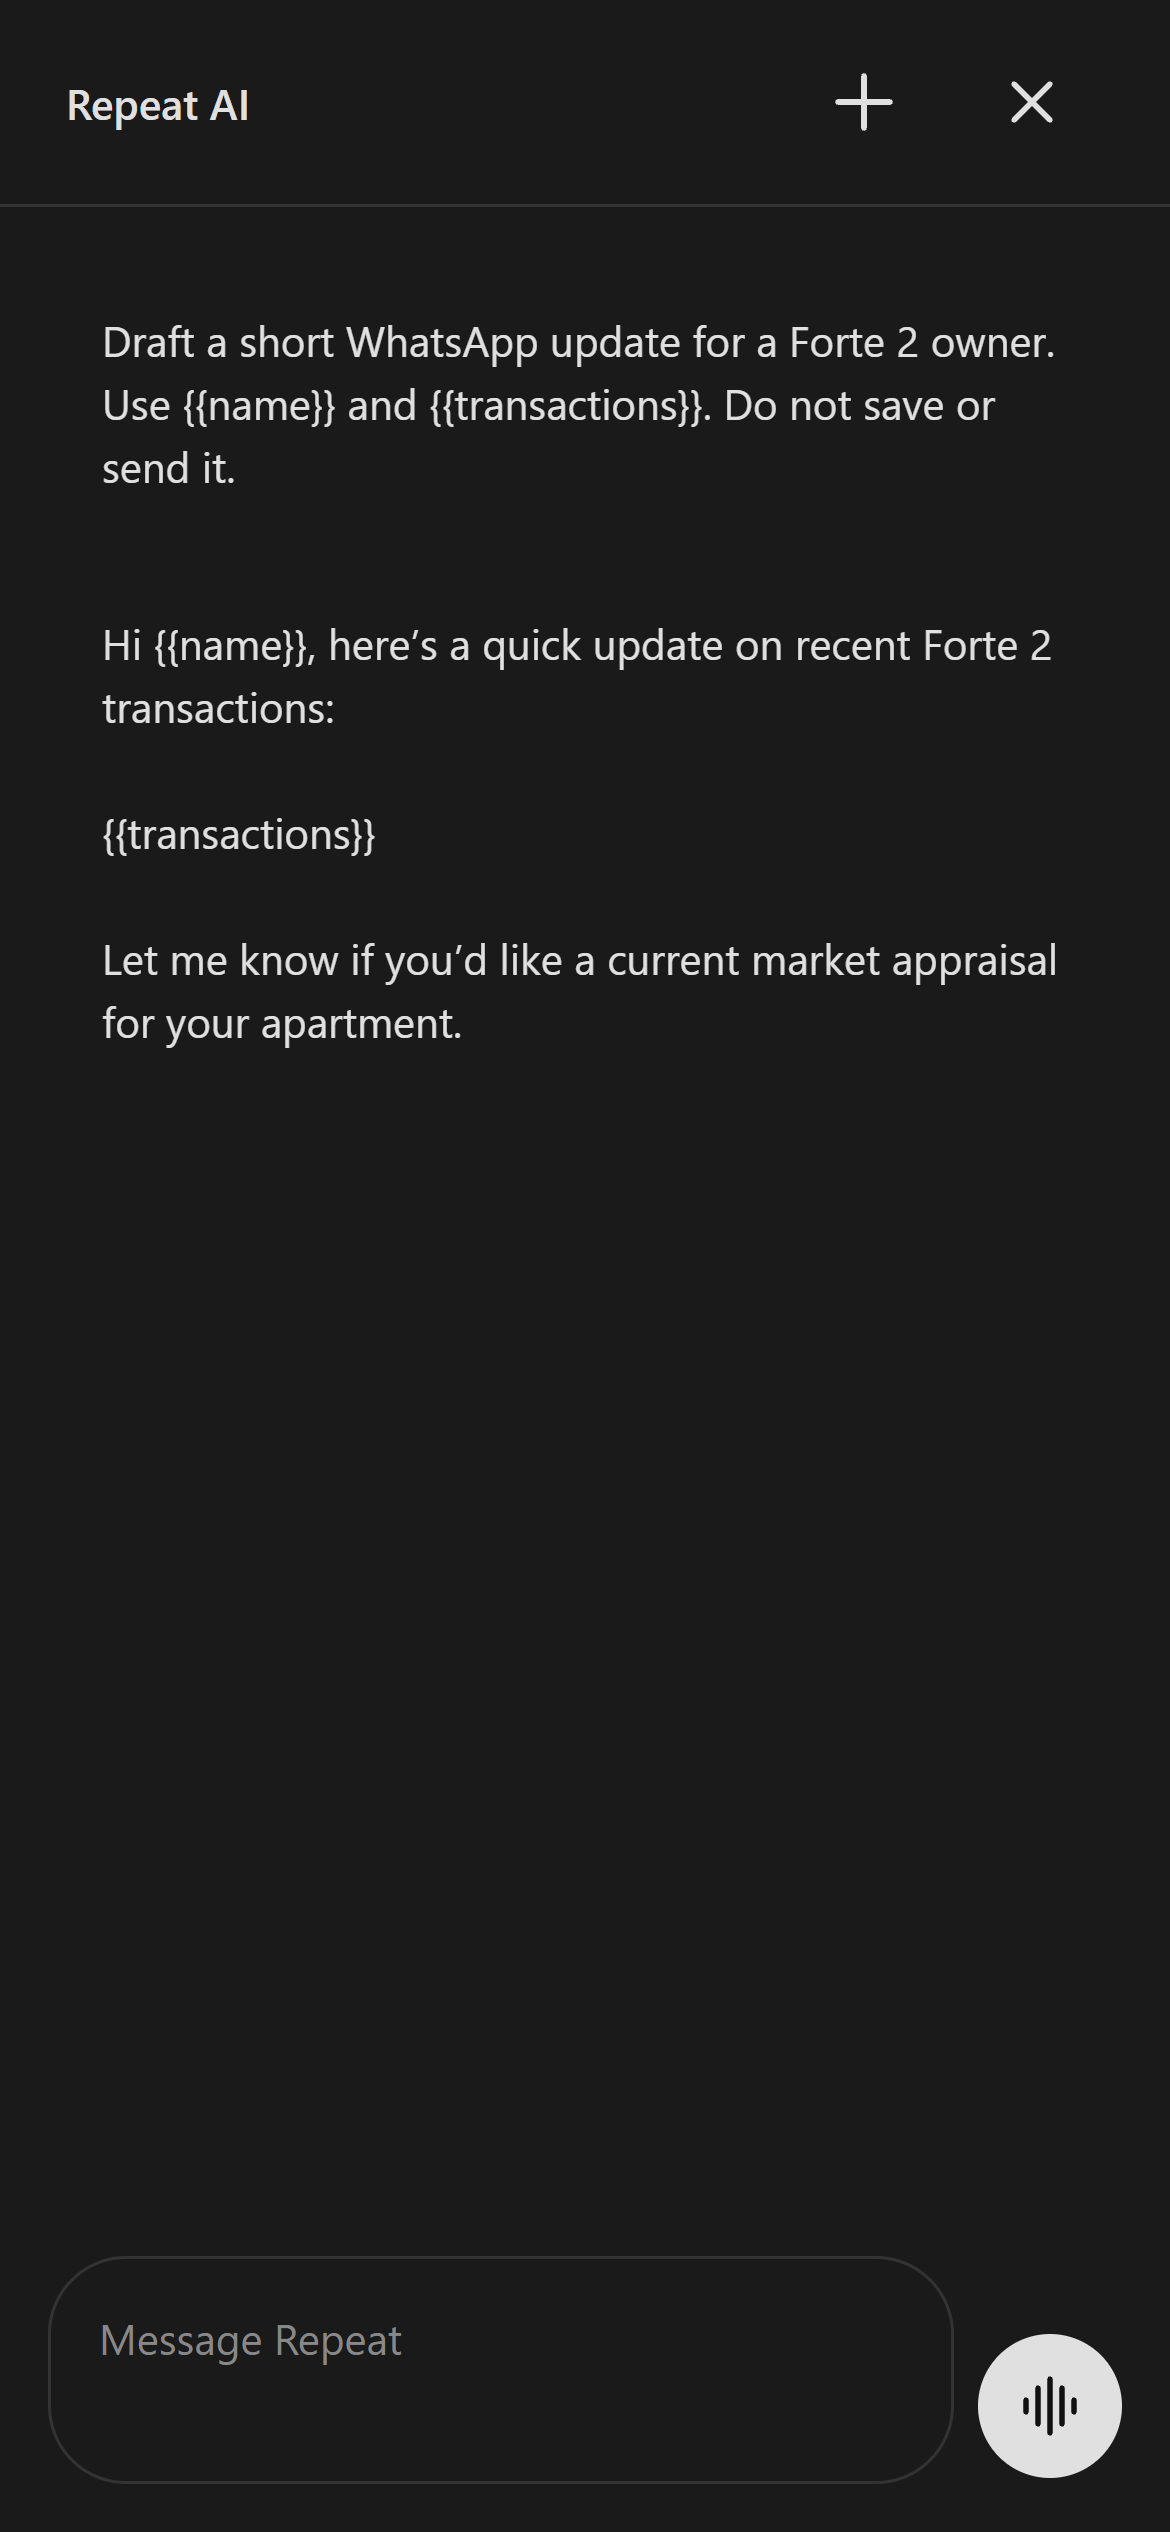
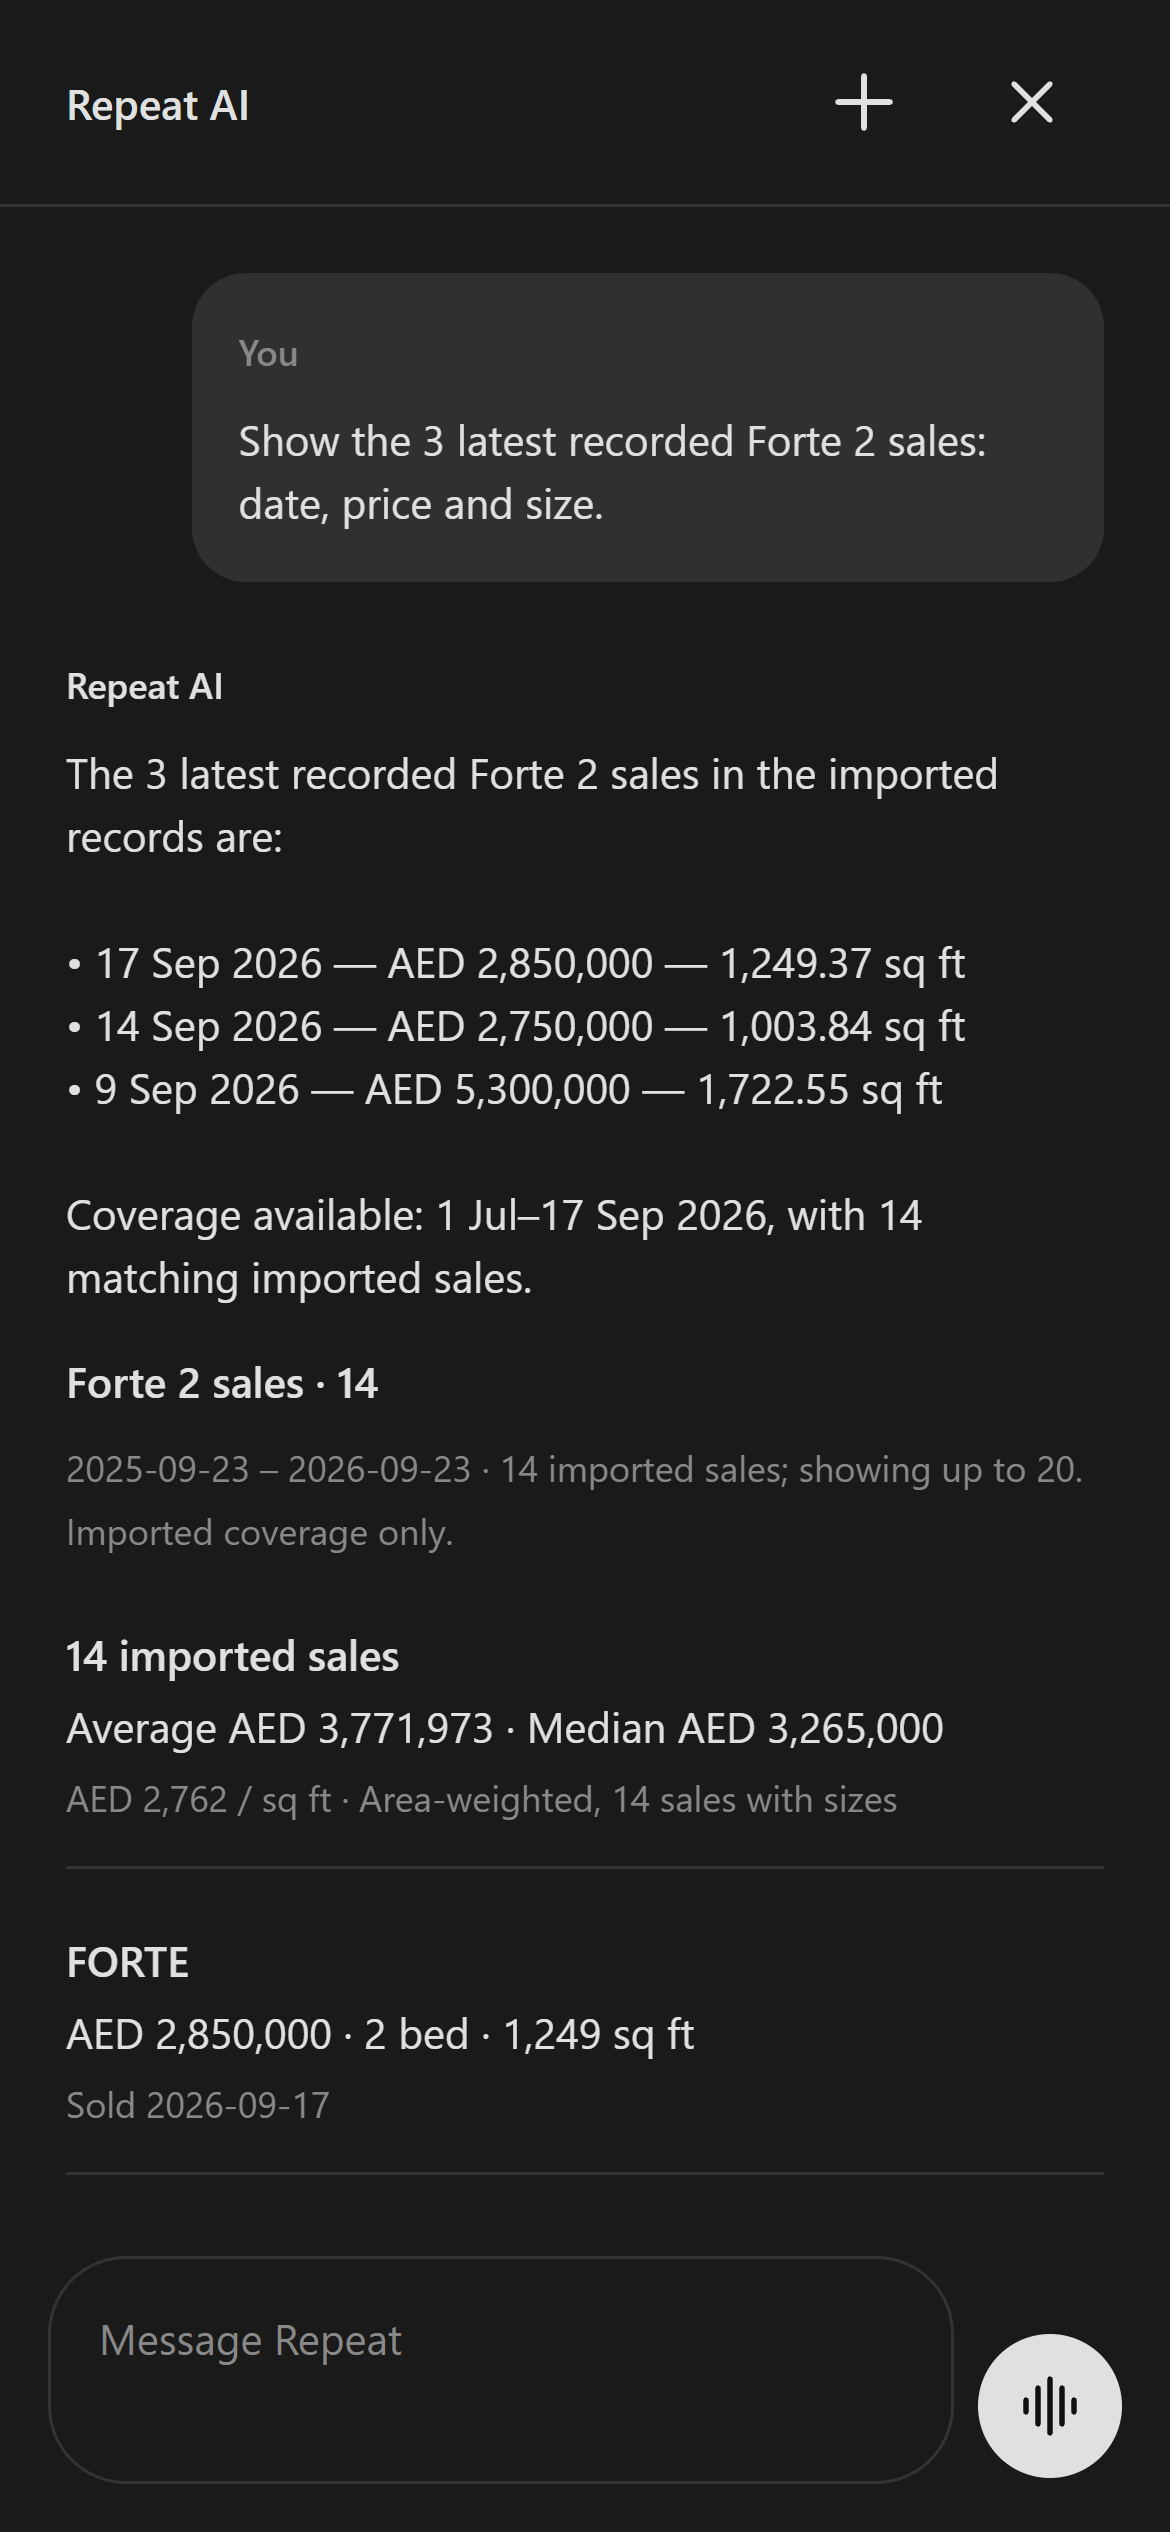
Distinguish assistant messages and preview actual Forte sales

diff --git a/mobile/src/workspace/voice-panel.js b/mobile/src/workspace/voice-panel.js
@@ -61,7 +61,8 @@ export default function VoicePanel({ colors, userId }) {
           </View>
           <Text accessibilityLiveRegion="polite" style={{ ...text, textAlign: 'center', fontSize: 25, lineHeight: 32, fontWeight: '500' }}>{title}</Text>
           </>}
-          {voice.messages.map((message, index) => <View key={index} style={{ alignSelf: message.role === 'user' ? 'flex-end' : 'stretch', backgroundColor: message.role === 'user' ? colors.bgInput : 'transparent', borderRadius: 14, padding: 12 }}>
+          {voice.messages.map((message, index) => <View key={index} style={{ alignSelf: message.role === 'user' ? 'flex-end' : 'stretch', maxWidth: message.role === 'user' ? '88%' : '100%', backgroundColor: message.role === 'user' ? (colors.isDark ? '#303030' : '#eef0ed') : 'transparent', borderRadius: 18, padding: message.role === 'user' ? 16 : 0, marginTop: message.role === 'user' ? 0 : 10, gap: 8 }}>
+            <Text style={{ ...muted, fontWeight: '600', color: message.role === 'user' ? colors.textMuted : colors.text }}>{message.role === 'user' ? 'You' : 'Repeat AI'}</Text>
             <Text selectable accessibilityLabel={`${message.role === 'user' ? 'You' : 'Repeat AI'}: ${message.content}`} style={text}>{message.content}</Text>
           </View>)}
           {voice.chatting && <Text accessibilityLiveRegion="polite" style={muted}>Thinking…</Text>}

diff --git a/docs/app-store-preview-2026-09-23/index.html b/docs/app-store-preview-2026-09-23/index.html
@@ -32,7 +32,7 @@
       </figure>
       <figure data-screen="assistant" data-source="web">
         <canvas width="1242" height="2688" role="img" aria-label="Ask Repeat. Keep work moving. Paid subscription required. Actual mobile web assistant preview."></canvas>
-        <figcaption><span>05 · Ask Repeat</span><a download="repeat-ai-v5-05-assistant-draft.png">Download PNG</a></figcaption>
+        <figcaption><span>05 · Ask Repeat</span><a download="repeat-ai-v7-05-assistant-draft.png">Download PNG</a></figcaption>
         <p class="capture-status">Mobile web preview · iPhone capture pending</p>
       </figure>
       <figure data-screen="templates" data-source="web">

diff --git a/docs/app-store-preview-2026-09-23/README.md b/docs/app-store-preview-2026-09-23/README.md
@@ -12,11 +12,11 @@ Added `exports/repeat-ai-v3-04-price-history.png` using the real iPhone capture 
 
 Cards 5–7 now show authenticated mobile web captures of Ask Repeat, Message templates and Schedule, at 1170 × 2532 (390 × 844 at 3x). Their exports are `exports/repeat-ai-v4-*-draft.png`, each 1242 × 2688 opaque RGB. They are explicitly marked as mobile web drafts in the gallery. Suitable native iPhone captures representative of the submitted build are still required before upload; do not assume the newer assistant UI is present in the previously selected build 23.
 
-The user completed sign-in at `http://localhost:8082/`. The older `dist-assistant-release-check` export reproduced a React Query provider error on Schedule; the existing newer `dist-assistant-minimal-check` export contains the previously implemented fix and rendered successfully. All three final captures use that newer export and the real account UI, with no fabricated application UI or assistant reply.
+The user completed sign-in at `http://localhost:8082/`. The older `dist-assistant-release-check` export reproduced a React Query provider error on Schedule; the existing newer `dist-assistant-minimal-check` export contains the previously implemented fix and rendered successfully. Templates and Schedule use that export. Revision 7 of Ask Repeat uses the newly built `dist-store-conversation-check`, including the distinct user bubble and speaker labels in `mobile/src/workspace/voice-panel.js`. All captures show real account UI, with no fabricated assistant reply.
 
-- Ask Repeat (revision 5): actual question and response drafting a WhatsApp update for a Forte 2 owner, using `{{name}}` and `{{transactions}}`. The browser's original `Failed to fetch` was confirmed as a CORS preflight failure. A temporary loopback development server routed only `/api/voice` to the existing production endpoint, forwarding the normal authenticated request without changing server access checks. The response is genuine, captured from the app; no template was saved or WhatsApp message sent.
+- Ask Repeat (revision 7): actual question and response showing the three latest Forte 2 transactions available in Repeat AI's imported records: 17 September 2026, AED 2,850,000, 1,249.37 sq ft; 14 September, AED 2,750,000, 1,003.84 sq ft; and 9 September, AED 5,300,000, 1,722.55 sq ft. The reply explicitly states imported coverage. A shaded, right-aligned user bubble and separate speaker labels distinguish the question and answer. A temporary loopback development server routed only `/api/voice` to the existing production endpoint, forwarding the normal authenticated request without changing server access checks. No template was saved or WhatsApp message sent. Targeted mobile ESLint and Expo web export passed; the screenshot was visually checked.
 - Templates (revision 6): the actual Preview sheet shows a fictional white Alder Properties brochure above the sample message. It contains no portrait, personal contact details or broker credentials. The brochure was selected as an unsaved local draft and discarded by reloading after capture; the account's saved attachment is unchanged. Editable artwork is in `sample-brochure.html`.
-- Current exports: `exports/repeat-ai-v5-05-assistant-draft.png` and `exports/repeat-ai-v6-06-templates-draft.png`. Template exports from revisions 4 and 5 were removed from the current tree because they included the personal broker card. These are still mobile web drafts pending matching native iPhone captures.
+- Current exports: `exports/repeat-ai-v7-05-assistant-draft.png` and `exports/repeat-ai-v6-06-templates-draft.png`. Template exports from revisions 4 and 5 were removed from the current tree because they included the personal broker card. These are still mobile web drafts pending matching native iPhone captures.
 - Schedule: temporary unsaved Monday selections from the account's imported building list. Weekly scheduling stayed off, Save was never pressed, and the draft was discarded by reloading after capture.
 - Device frame: additional top inset on web captures keeps the frame's island clear of actual app navigation. No synthetic iOS status bar was added.
 - Verified seven rendered cards, no gallery horizontal overflow, three opaque RGB exports at the required dimensions, and targeted ESLint. No native build, upload or submission was started.
